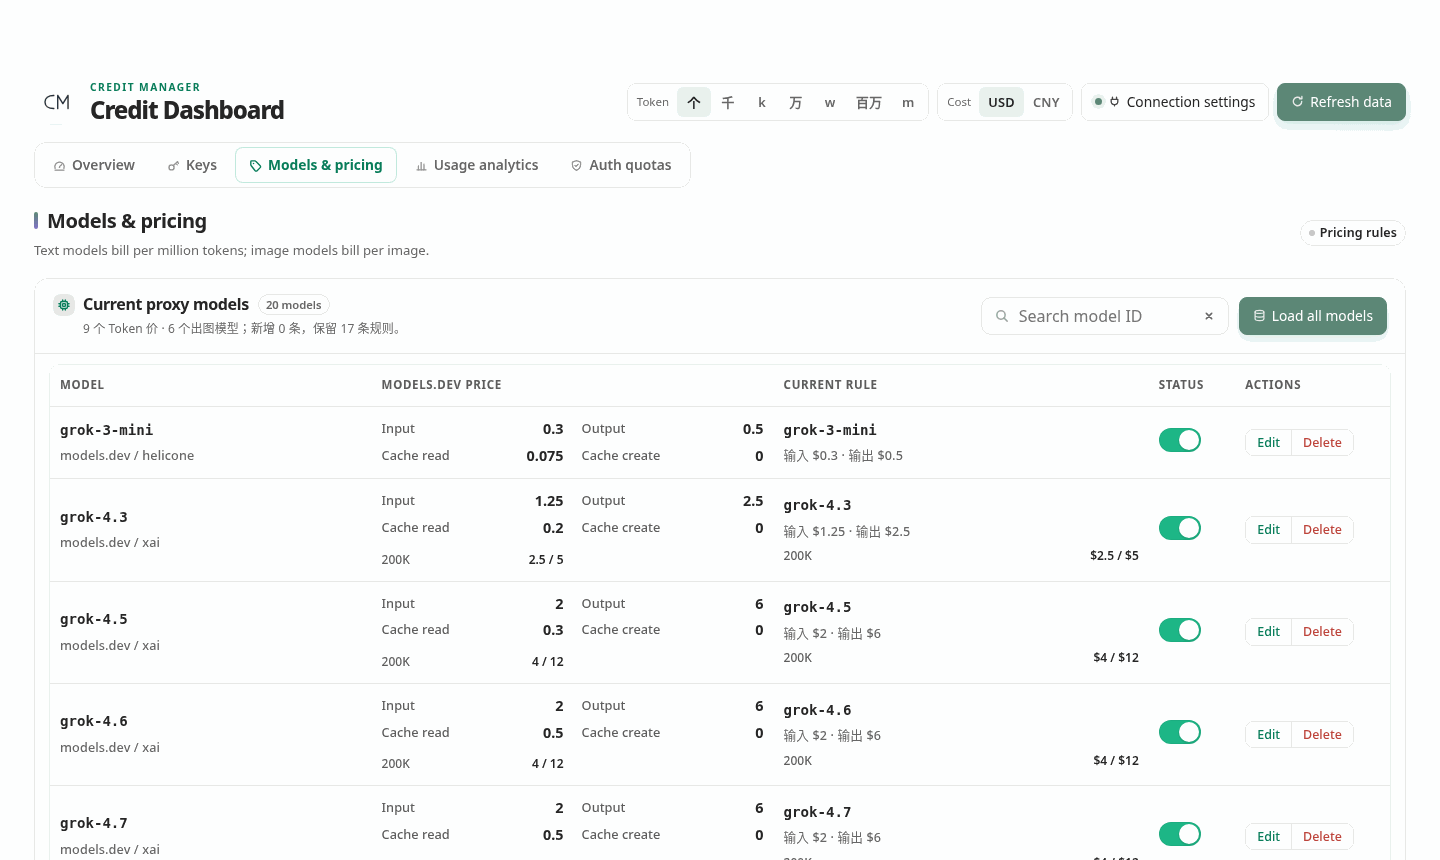
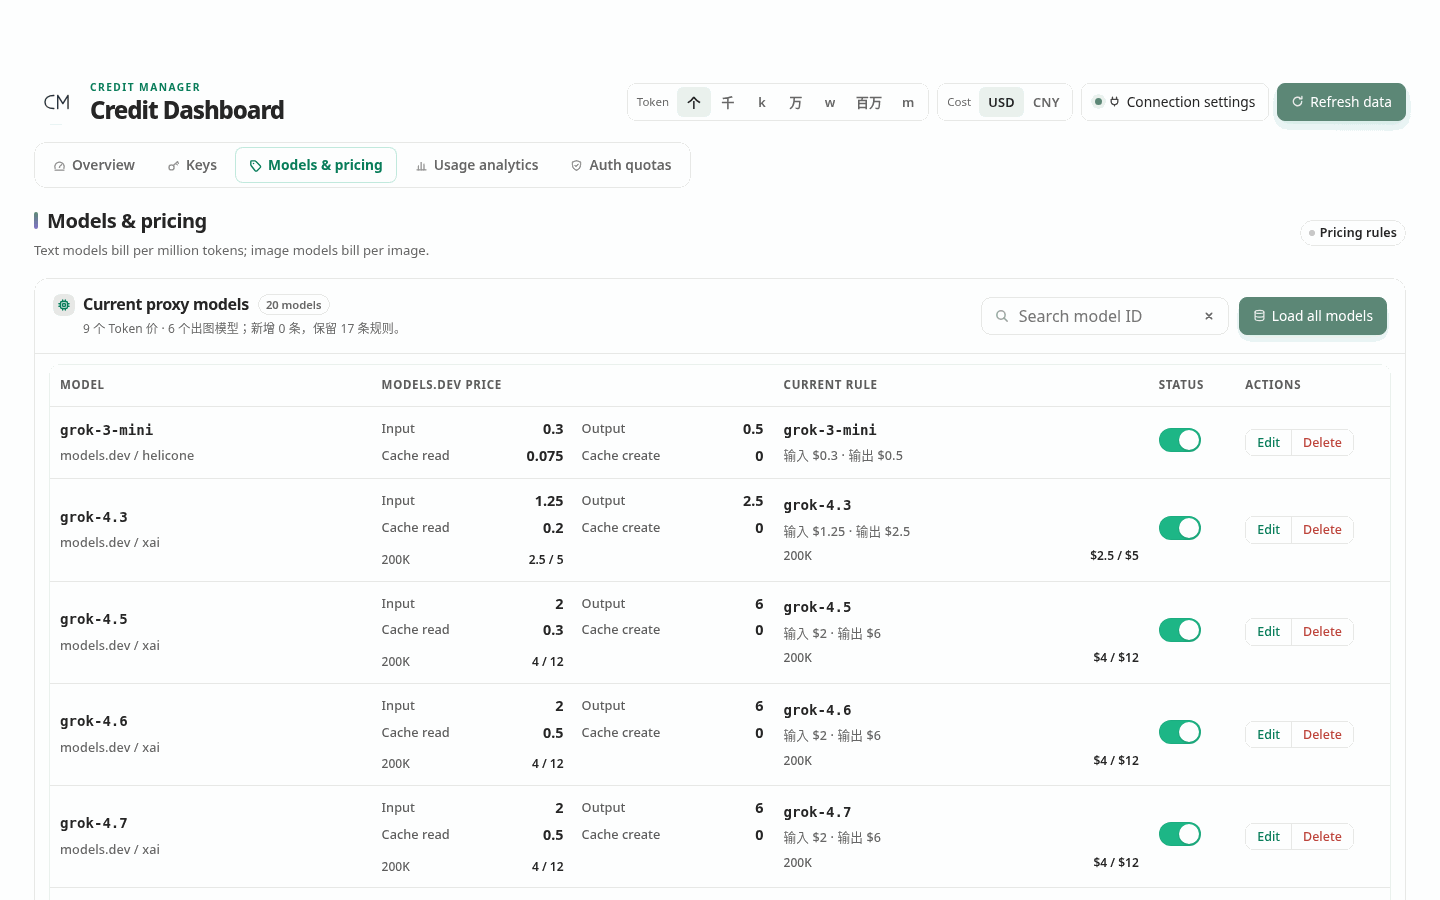
docs(readme): retake screenshots with demo data, add usage and lookup shots

diff --git a/README.en.md b/README.en.md
@@ -172,8 +172,10 @@ The self-service page is not listed in the management sidebar and needs no host 
 | ![Overview](docs/images/en-overview.png) | ![Keys](docs/images/en-keys.png) |
 | **Models & pricing** | **Auth quotas** |
 | ![Models & pricing](docs/images/en-pricing.png) | ![Auth quotas](docs/images/en-auth-quotas.png) |
+| **Usage analytics** | **Key self-service lookup** |
+| ![Usage analytics](docs/images/en-usage.png) | ![Key self-service lookup](docs/images/en-lookup.png) |
 
-Account emails in the screenshots are replaced with placeholders.
+Screenshots come from a separate demo instance priced with models.dev reference prices, with data from 44 real small requests; account emails are replaced with placeholders.
 
 ## Limits and Settlement
 

diff --git a/README.md b/README.md
@@ -172,8 +172,10 @@ curl -sS "http://127.0.0.1:8317/v1/chat/completions" \
 | ![概览](docs/images/zh-overview.png) | ![密钥管理](docs/images/zh-keys.png) |
 | **模型与价格** | **认证额度** |
 | ![模型与价格](docs/images/zh-pricing.png) | ![认证额度](docs/images/zh-auth-quotas.png) |
+| **使用统计** | **Key 自助查询页** |
+| ![使用统计](docs/images/zh-usage.png) | ![Key 自助查询页](docs/images/zh-lookup.png) |
 
-截图中的账号邮箱已替换为示例地址。
+截图来自独立的演示实例：价格按 models.dev 上的参考价配置，数据来自 44 次真实的小请求；账号邮箱已替换为示例地址。
 
 ## 额度与结算
 
